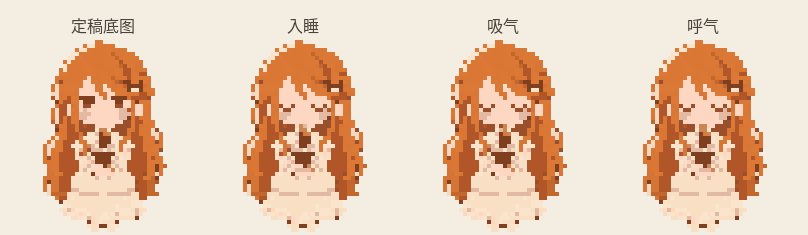
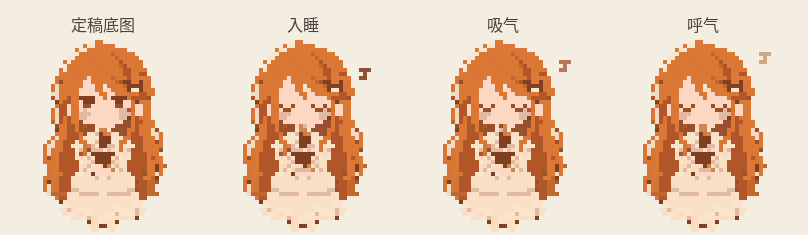
Finish Xiaoke's sleep effect and preview the approval gesture

diff --git a/design/incoming/pet/xiaoke/README.md b/design/incoming/pet/xiaoke/README.md
@@ -13,8 +13,12 @@
 - **一次只做一个状态**，做完出预览和 GIF 给主人看，点头后再做下一个。
 - 可以顺手修帧与帧之间头发边缘的个别抖动像素，但不能改造型。
 
-## 睡觉预览（待确认）
+## 睡觉（通过，已补小 z）
 
-`sleeping/` 有三帧，分别停留 1150／630／780 ms。以 `idle/01.png` 为底，闭着眼，手放松，嘴和手部的细微动作表现呼吸。[逐帧对照](sleeping-preview.png) · [循环 GIF](sleeping.gif)
+`sleeping/` 有三帧，分别停留 1150／630／780 ms。以 `idle/01.png` 为底，闭着眼，手放松，嘴和手部的细微动作表现呼吸。头顶右上方的小 z 每帧向上飘 2 像素，颜色逐步变浅。[逐帧对照](sleeping-preview.png) · [循环 GIF](sleeping.gif)
 
-确认后接着做 notification、attention、working、error，每次交一组预览。
+## 等批准预览（待确认）
+
+`notification/` 有三帧，分别停留 900／170／650 ms。以 `idle/01.png` 为底，举起一只手，轻抬后停住等候。[逐帧对照](notification-preview.png) · [循环 GIF](notification.gif)
+
+确认后依次做 attention、working、error，每次交一组预览。

diff --git a/docs/STATUS.md b/docs/STATUS.md
@@ -57,5 +57,5 @@
 ## C7 宠物预览
 
 - 肉包已定稿并打成内置包 `App/Pets/roubao/`，共 14 个状态、42 帧，署名「lllhr94」、授权「仅限 Clio 使用」。GitHub Actions iOS 编译已通过（`shots=false`）。
-- 小克（宠物包 ID `xiaoke`）的闲坐与思考共六帧已定稿，以调成橘发的最早版本为底。睡觉状态已交三帧预览和循环 GIF，等主人看过后再依次做等批准、完成、工作、出错。
+- 小克（宠物包 ID `xiaoke`）的闲坐与思考共六帧已定稿，以调成橘发的最早版本为底。睡觉已通过，按反馈补上右上飘的小 z。等批准已交三帧举手预览和循环 GIF，待确认后再依次做完成、工作、出错。
 - C9 的小克引导插画等宠物状态定稿后再按柔和初版调整。C5 的头像接入可用已定稿的肉包验证。
